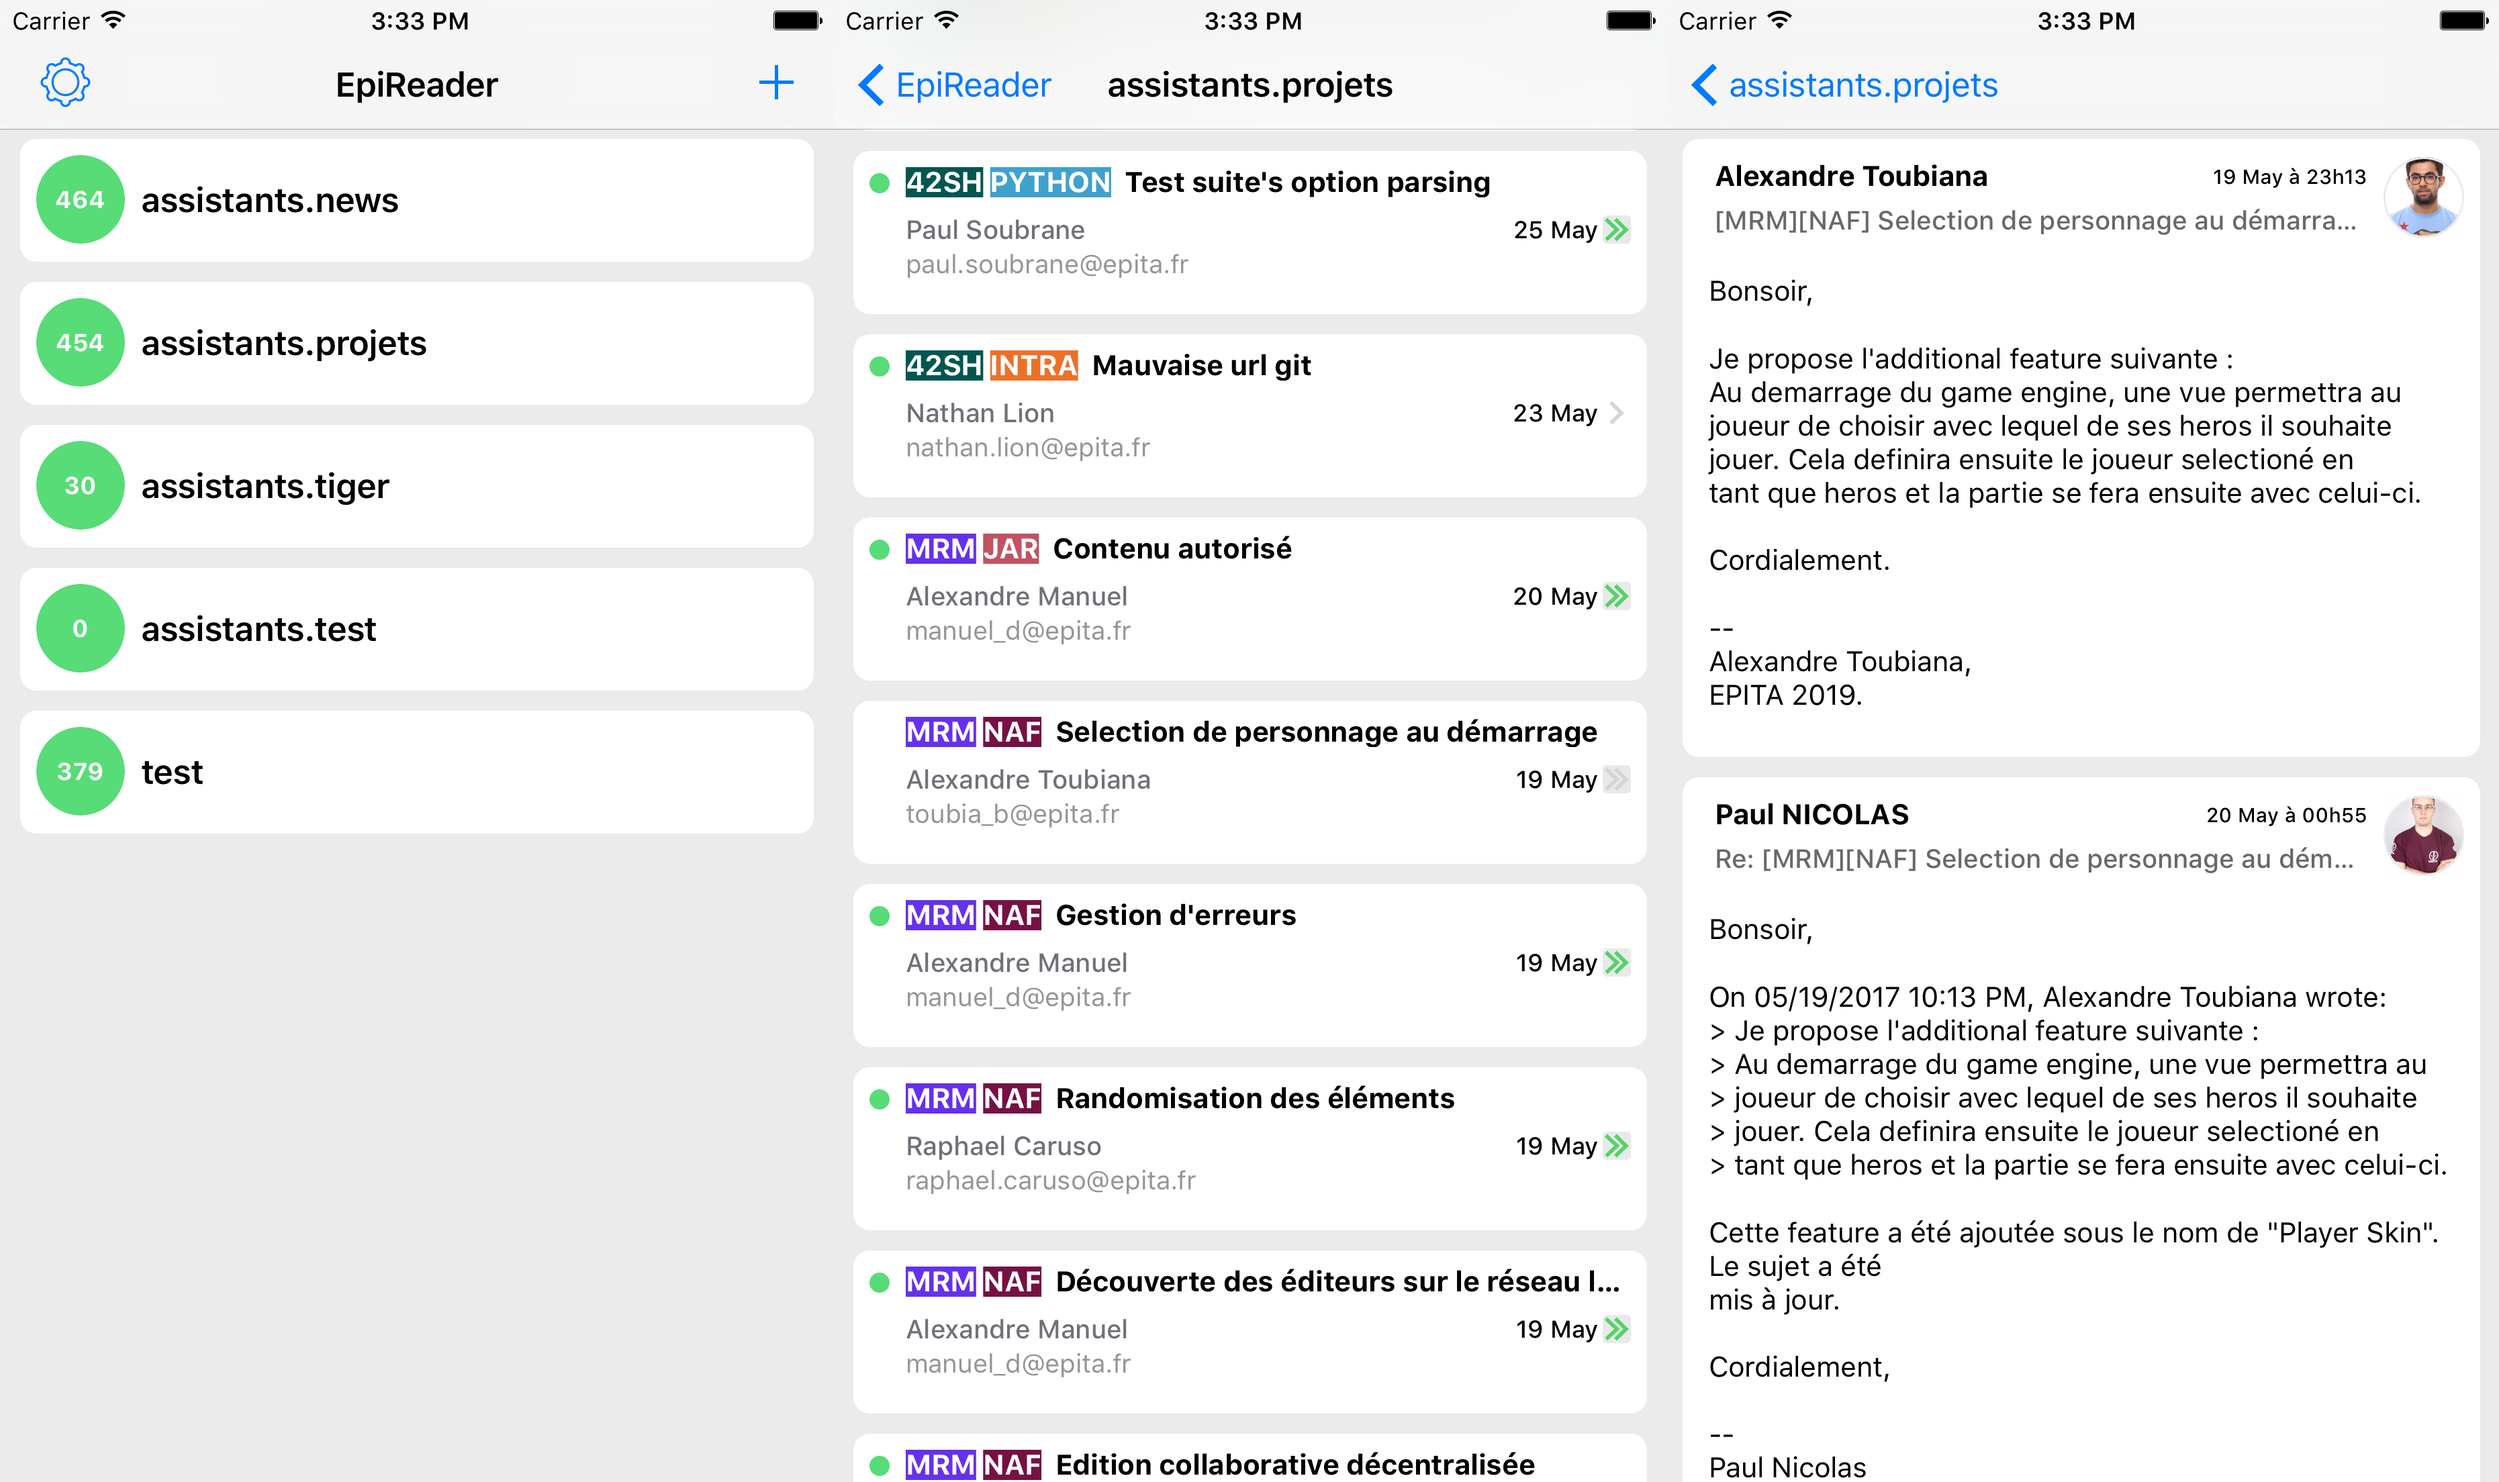
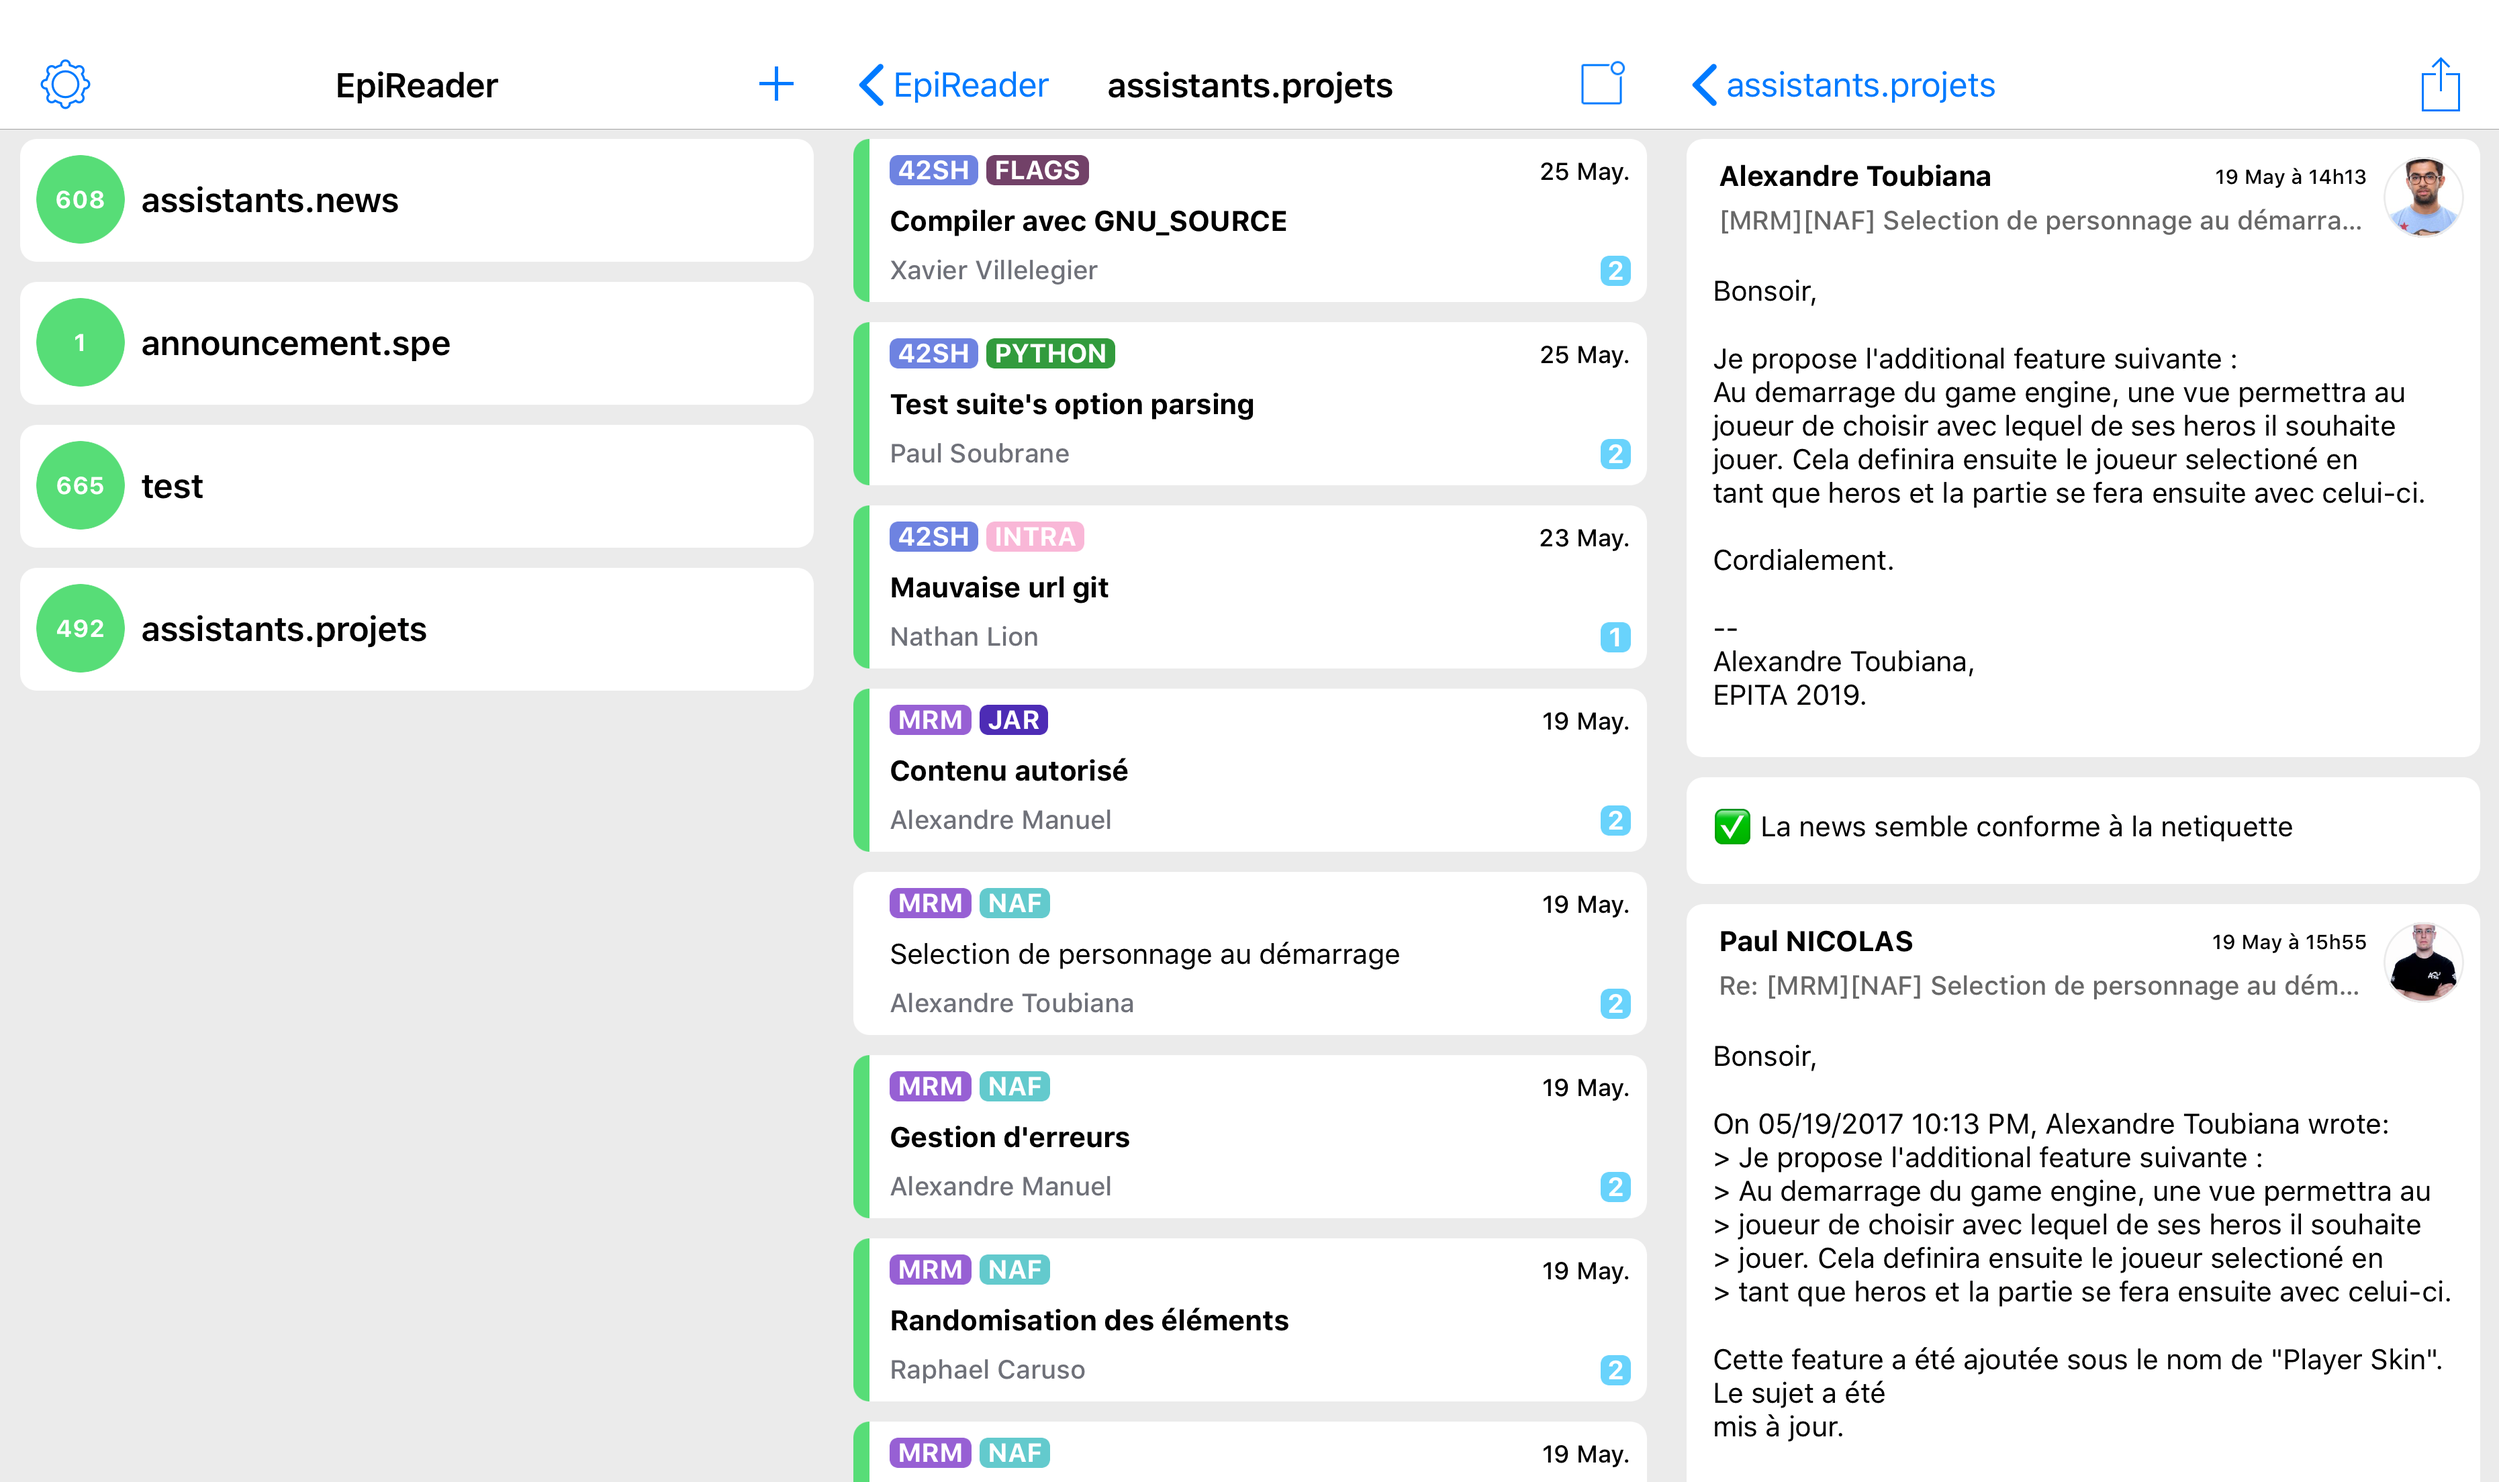
Update README.md

diff --git a/README.md b/README.md
@@ -44,16 +44,16 @@ $ pod install
 - [x] Warning supprimer
 - [x] Clean code
 - [x] Use Swift 4
+- [x] Redesign tag Collection View [[TAG1],[TAG2],[title]]
+- [x] Change display news hours
+- [x] Compatibility with iPhone X
 - [ ] Add search
 - [ ] Add mark all as read
 - [ ] Change number of news read in view group
 - [ ] Redesign app
-- [ ] Redesign tag Collection View [[TAG1],[TAG2],[title]]
 - [ ] Design loader
 - [ ] Highlight signature
-- [ ] Change display news hours
 - [ ] Fix netiquette errors
-- [ ] Compatibility with iPhone X
 - [ ] Post news
 - [ ] Themes
 - [ ] Apple Watch
